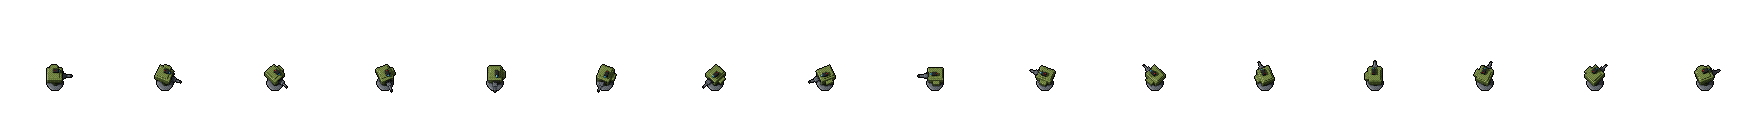
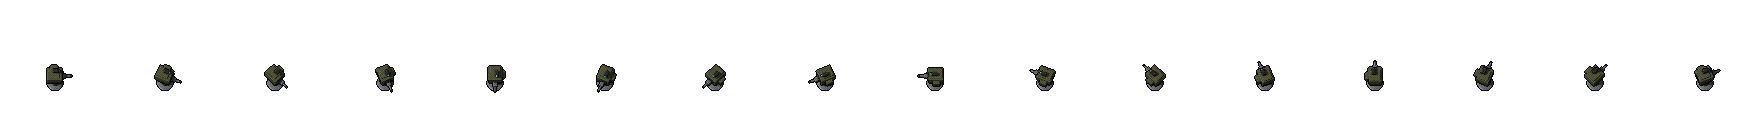
Ranked talents, turret polish, campfire line
- Talents: a second row of five-rank talents, each opened by the one over
  it: Quick knife, Quick roll and Quick reload, each rank 1% off what's
  left of its wait (never down to nothing); the level cap counts every
  rank
- Turret: darker khaki armour, black lines between its parts; five bugs
  come for the hero the first time he comes up to it
- Campfire: its line shortened to two rows, wondering where the wood's
  from

diff --git a/public/client.js b/public/client.js
@@ -11,7 +11,7 @@ import { createSpeech } from '/render/speech.js';
 import { createGuide } from '/render/guide.js';
 import { createReach } from '/render/reach.js';
 import { createHotbar } from '/render/hotbar.js';
-import { TALENTS, createTalents } from '/render/talents.js';
+import { TALENTS, TALENT_POINTS, createTalents } from '/render/talents.js';
 import { lifeBar, RING_STEP } from '/render/life.js';
 import { createJournal } from '/render/journal.js';
 import { MARGIN as GLOBE_MARGIN, RADIUS as GLOBE_RADIUS, createGlobe } from '/render/globe.js';
@@ -65,7 +65,7 @@ let medkits = MEDKITS, medkitCool = 0; // (seconds till the next can be)
 // point to spend (T; see render/talents.js). He starts at the first; the punching bag cut to bits
 // gives him the second at once. He goes no higher than there are talents for (MAX_LEVEL)
 const xpFor = (level) => 50 * level;
-const MAX_LEVEL = 1 + TALENTS.length;
+const MAX_LEVEL = 1 + TALENT_POINTS; // (a level for each point the talents can take, all their ranks)
 let xp = 0, level = 1, points = 0, talentsOpen = false;
 const me = { hp: HP, x: SPAWN.x, y: SPAWN.y, dir: 0, moving: false, gait: 'run', roll: null, rollCooldown: 0, pick: null, squat: 0, slash: null, fire: null, crouch: false, animOffset: 0, stride: 0.7, sprite: 'hero' };
 const objects = OBJECTS.filter((o) => !o.later); // what still lies on the map (picked up things are removed)
@@ -632,6 +632,11 @@ let drill = 'off';
 // The rounds: counted once the drill's done: in the magazine; full
 // magazines to put in he has no end of
 const MAG = 10; // rounds in one
+// The knife's wait after a slash, the gun's reload and the wait after a roll, each 1% shorter for each rank of its talent (of
+// what's left of it each time: never down to nothing)
+const knifeWait = () => SLASH_COOLDOWN * 0.99 ** talents.rank('quickknife');
+const reloadTime = () => RELOAD_TIME * 0.99 ** talents.rank('quickreload');
+const rollWait = () => ROLL_COOLDOWN * 0.99 ** talents.rank('quickroll'); // (the roll's too)
 const RELOAD_SOUNDS = [[0.55, 'in'], [1, 'bolt']]; // a reload's sounds, at how far through it (0..1): the new one in, the bolt (as it's done: he can fire then)
 // A reload started: the magazine out at once (or after seconds), heard then whether or not it goes on yet
 // (running, it waits)
@@ -780,13 +785,25 @@ function inSlash(x, y, r) {
 }
 
 // ---------- The turret by the campfire: it turns to the nearest bug in TURRET_RANGE it can see and,
-// once its gun's on it, fires at it, a round every TURRET_EVERY: each a point off its life ----------
+// once its gun's on it, fires at it, a round every TURRET_EVERY: each a point off its life. The first
+// time he comes up to it, TURRET_WAVE bugs come for him out of sight ----------
 
 const turret = OBJECTS.find((o) => o.name === 'turret'); // (its aim: where its gun points, radians; frame: its sprite's for that)
 const TURRET_TURN = 5, TURRET_ON = 0.12, TURRET_EVERY = 0.16; // radians a second it turns; how close to on it, to fire; seconds between rounds
 let turretCool = 0;
 
+const TURRET_WAVE = 5, TURRET_NEAR = 4 * UNITS_PER_M; // bugs that come for him out of sight the first time he comes up to it (meters from it)
+let turretMet = false;
+
 function updateTurret(dt) {
+  // The first time he comes up to it, a pack comes for him out of the dark (for it to show what it does)
+  if (!turretMet && Math.hypot(turret.x - me.x, turret.y - me.y) < TURRET_NEAR) {
+    turretMet = true;
+    for (let i = 0; i < TURRET_WAVE; i++) {
+      const was = bugs.length;
+      for (let tries = 0; tries < 8 && bugs.length === was; tries++) spawnPack(1); // (each from wherever's clear, out of sight)
+    }
+  }
   turretCool = Math.max(0, turretCool - dt);
   let target = null, best = Infinity;
   for (const b of bugs) { // (the nearest, with nothing solid in the way)
@@ -1218,7 +1235,7 @@ function step(real) {
   me.knifeCool = Math.max(0, (me.knifeCool ?? 0) - dt); // (seconds till the knife's ready again: a slash and SLASH_COOLDOWN after it)
   if (attackPressed && free && !drilling && !me.knifeCool) {
     me.slash = { t: 0 };
-    me.knifeCool = SLASH_TIME + SLASH_COOLDOWN;
+    me.knifeCool = SLASH_TIME + knifeWait();
     me.animOffset = -now;
     sounds.swish(SLASH_TIME * SLASH_CUT);
   }
@@ -1262,11 +1279,11 @@ function step(real) {
   // Reloading goes on while he stands (on the move too, with the talent; running without it, it waits
   // where it is): with the trigger held through it, he fires on once it's done
   if (ammo && ammo.reload !== null && (!me.moving || talents.has('runreload'))) {
-    const was = ammo.reload / RELOAD_TIME;
+    const was = ammo.reload / reloadTime();
     ammo.reload += dt;
-    const k = ammo.reload / RELOAD_TIME; // (its sounds as it gets to them)
+    const k = ammo.reload / reloadTime(); // (its sounds as it gets to them)
     for (const [at, part] of RELOAD_SOUNDS) if (was < at && k >= at) sounds.reload(part);
-    if (ammo.reload >= RELOAD_TIME) {
+    if (ammo.reload >= reloadTime()) {
       Object.assign(ammo, { mag: MAG, reload: null });
       me.animOffset = -now; // (the gait's clock from the start again: the reload's legs end where a cycle starts)
     }
@@ -1288,7 +1305,7 @@ function step(real) {
   // roll (startRoll turns him). Without a cursor he looks where he runs.
   const aim = aimDirection();
   if (me.pick) updatePick(dt);
-  else if (!updateRoll(me, dt)) {
+  else if (!updateRoll(me, dt, rollWait())) {
     if (me.squat > 0) { if (near) me.dir = dirFromVector(near.x - me.x, near.y - me.y); } // turned to it
     else if (aim) me.dir = dirFromVector(aim.dx, aim.dy);
     else if (me.moving) me.dir = dirFromVector(dx, dy);
@@ -1476,7 +1493,7 @@ function updateDebug() {
     row('talents', TALENTS.filter((tl) => talents.has(tl.id)).map((tl) => tl.id).join(', ') || '—'),
     row('backpack', show(hasBackpack)),
     row('medkits', `${medkits} / ${MEDKITS}`),
-    row('ammo', ammo ? `${ammo.mag} / ${MAG}${ammo.reload !== null ? `, reloading ${show(ammo.reload)} / ${show(RELOAD_TIME)} s` : ''}` : '—'),
+    row('ammo', ammo ? `${ammo.mag} / ${MAG}${ammo.reload !== null ? `, reloading ${show(ammo.reload)} / ${show(reloadTime())} s` : ''}` : '—'),
     '', `BUGS ${bugs.length}`,
     ...bugs.slice(0, DEBUG_BUGS).map((b) => `${show(Math.hypot(b.x - me.x, b.y - me.y) / UNITS_PER_M).padStart(6)} m  life ${show(b.life)}  ${b.moving ? 'moving' : 'still'}  dash ${show(b.dash)}  bite ${show(b.bite)}`),
     ...(bugs.length > DEBUG_BUGS ? [`  … ${bugs.length - DEBUG_BUGS} more`] : []),
@@ -1529,7 +1546,7 @@ function render(now, dt, talkDt = dt) {
       me.slash ? me.slash.t / SLASH_TIME : null, dt, !!me.roll, toScreenX(shotRange()), // gone while rolling
       (a, px) => toScreenX(aimHit(Math.cos(a), Math.sin(a), px / toScreenX(1))), // stopped by solid things, and the bottles
       shotSpread(), me.fire?.phase === 'loop' ? 0.5 + 0.5 * Math.exp(-(clock - lastShotAt) / 90) : 0, // the cone lit while firing, flaring with each round
-      Math.min(1, (me.knifeCool ?? 0) / SLASH_COOLDOWN)); // the knife getting ready again: the sector empty through the slash, then filling back in
+      Math.min(1, (me.knifeCool ?? 0) / knifeWait())); // the knife getting ready again: the sector empty through the slash, then filling back in
     // The rounds left in the magazine, on the sand along the aim, just to the right of its line (as he
     // looks): a square for each, in a row (they run down from the far end;
     // reloading, they fill back in from the near end, pale red to white; the empty ones blink pale red
@@ -1541,7 +1558,7 @@ function render(now, dt, talkDt = dt) {
       ctx.save();
       ctx.translate(camX + toScreenX(me.x), camY + toScreenY(me.y));
       ctx.rotate(angle); // x on along the aim, y to its right
-      const blink = 0.5 + 0.5 * Math.sin((now / 1000) * Math.PI * 5), k = ammo.reload !== null ? ammo.reload / RELOAD_TIME : null;
+      const blink = 0.5 + 0.5 * Math.sin((now / 1000) * Math.PI * 5), k = ammo.reload !== null ? ammo.reload / reloadTime() : null;
       const full = k !== null ? Math.floor(MAG * k) : ammo.mag; // (reloading: the ones in already)
       const on = k !== null ? `rgba(255, ${Math.round(140 + 115 * k)}, ${Math.round(120 + 135 * k)}, ${0.45 + 0.15 * k})` : 'rgba(255, 255, 255, 0.6)';
       const off = k !== null ? `rgba(255, 110, 90, ${0.15 + 0.3 * blink})` : 'rgba(255, 255, 255, 0.15)';
@@ -1553,8 +1570,8 @@ function render(now, dt, talkDt = dt) {
     }
   }
   // The roll getting ready again: a ring inside his health's, two of its rings' steps in (there in a roll too)
-  const rollGone = me.roll ? me.roll.t : ROLL_TIME + ROLL_COOLDOWN - (me.rollCooldown ?? 0); // (seconds since a roll started)
-  const rollCool = Math.max(0, 1 - rollGone / (ROLL_TIME + ROLL_COOLDOWN));
+  const rollGone = me.roll ? me.roll.t : ROLL_TIME + rollWait() - (me.rollCooldown ?? 0); // (seconds since a roll started)
+  const rollCool = Math.max(0, 1 - rollGone / (ROLL_TIME + rollWait()));
   if (rollShown()) reach.roll(snap(camX + toScreenX(me.x)), snap(camY + toScreenY(me.y)), toScreenX(HEALTH_R) - 2 * RING_STEP, aimAngle() + Math.PI, rollCool, dt);
   // His health, a ring on the sand round him (there in a roll too, unlike the reach)
   reach.health(snap(camX + toScreenX(me.x)), snap(camY + toScreenY(me.y)), toScreenX(HEALTH_R), aimAngle() + Math.PI, me.hp, HP, strikeClock); // (the pulse on real time)
@@ -1570,7 +1587,7 @@ function render(now, dt, talkDt = dt) {
     x: snap(camX + toScreenX(p.x)), y: snap(camY + toScreenY(p.y)), dir: p.dir,
     // The roll, the slash, the reload and picking up play once, from their start
     // (squatting while E fills, the pick animation's way down follows the key)
-    time: p.roll ? p.roll.t * 1000 : p.slash ? p.slash.t * 1000 : reloading(p) ? ammo.reload * 1000 : p.fire && p.fire.phase !== 'loop' ? p.fire.t * 1000 : p.pick ? p.pick.t * 1000
+    time: p.roll ? p.roll.t * 1000 : p.slash ? p.slash.t * 1000 : reloading(p) ? ammo.reload * (RELOAD_TIME / reloadTime()) * 1000 : p.fire && p.fire.phase !== 'loop' ? p.fire.t * 1000 : p.pick ? p.pick.t * 1000
       : p.squat > 0 ? p.squat * PICK_GRAB * PICK_TIME * 1000 : now + p.animOffset,
     anim: p.roll ? 'roll' : p.slash ? crouched(p.moving ? SLASH_ANIM[p.gait] : 'slash')
       : reloading(p) ? crouched(p.moving ? RELOAD_ANIM[p.gait] : 'reload')
@@ -1752,8 +1769,8 @@ function render(now, dt, talkDt = dt) {
   if (hasBackpack) hotbar.draw([
     { key: '1', icon: 'cross', held: keys.has('Digit1'), dim: !medkits, cool: medkitCool / MEDKIT_COOLDOWN }, // (how many are left: not shown for now)
     ...(rollShown() ? [{ key: 'Space', icon: 'roll', held: keys.has('Space'), cool: rollCool }] : []),
-    { key: 'LMB', icon: 'fist', held: knifeHeld, cool: Math.min(1, (me.knifeCool ?? 0) / (SLASH_TIME + SLASH_COOLDOWN)) },
-    { key: 'RMB', icon: 'crosshair', held: triggerHeld, cool: ammo?.reload != null ? 1 - ammo.reload / RELOAD_TIME : 0, count: ammo && ammo.reload == null ? ammo.mag : null },
+    { key: 'LMB', icon: 'fist', held: knifeHeld, cool: Math.min(1, (me.knifeCool ?? 0) / (SLASH_TIME + knifeWait())) },
+    { key: 'RMB', icon: 'crosshair', held: triggerHeld, cool: ammo?.reload != null ? 1 - ammo.reload / reloadTime() : 0, count: ammo && ammo.reload == null ? ammo.mag : null },
   ], W / 2, H - GLOBE_MARGIN, dt, { level, k: level >= MAX_LEVEL ? 1 : xp / xpFor(level), points });
   // The bottom right corner, as the planet's name is over the globe, growing up from it: the journal (J) at
   // the bottom, over it the talents (T: once there are some to have, his second level on), then the map

diff --git a/public/render/talents.js b/public/render/talents.js
@@ -1,34 +1,45 @@
 // The talents: what a level's point buys, and their window (T), over the middle of the screen while the
-// game holds: a card for each in a row, like the labels' (a see-through black plate, a thick edge on
-// the left, rounded on the right): white once taken, gold while it can be (a point to spend), dim
-// with none. A click on a gold one takes it. Without them, he stands still to slash or fire, and a
-// reload waits while he runs.
+// game holds: their cards in rows, like the labels' (a see-through black plate, a thick edge on the left,
+// rounded on the right): white once taken (all the way), gold while it can be (a point to spend), dim
+// with none. A click on a gold one takes it (a rank of it). The first row's are taken once: without
+// them, he stands still to slash or fire, and a reload waits while he runs. The second row's have
+// ranks, a point each, shown as pips on the card.
 
 import { FONT, PLATE, EDGE, GOLD, GOLD_EDGE } from '/render/labels.js';
 
-// { id, name, text (what it does) }
+// { id, name, text (what it does), row (0, 1: which row of the window), ranks (how many times it can be
+// taken: 1 if not given), needs (a talent to have taken first: the one over it) }
 export const TALENTS = [
-  { id: 'runslash', name: 'Slash on the run', text: 'Use the knife without stopping' },
-  { id: 'runfire', name: 'Shoot on the move', text: 'Fire the gun without stopping' },
-  { id: 'runreload', name: 'Reload on the move', text: 'Keep reloading while running' },
+  { id: 'runslash', name: 'Slash on the run', text: 'Use the knife without stopping', row: 0 },
+  { id: 'runfire', name: 'Shoot on the move', text: 'Fire the gun without stopping', row: 0 },
+  { id: 'runreload', name: 'Reload on the move', text: 'Keep reloading while running', row: 0 },
+  { id: 'quickknife', name: 'Quick knife', text: '-1% of the knife\'s wait', row: 1, ranks: 5, needs: 'runslash' },
+  { id: 'quickroll', name: 'Quick roll', text: '-1% of the roll\'s wait', row: 1, ranks: 5, needs: 'runfire' },
+  { id: 'quickreload', name: 'Quick reload', text: '-1% of the reload\'s time', row: 1, ranks: 5, needs: 'runreload' },
 ];
+const ranksOf = (t) => t.ranks ?? 1;
+// Points all the talents can take, all their ranks (a level for each: see client.js)
+export const TALENT_POINTS = TALENTS.reduce((n, t) => n + ranksOf(t), 0);
 
 const CARD_W = 190, CARD_H = 44, GAP = 12, PAD = 16, HEAD = 40; // px
 const NAME = `700 12px ${FONT}`, TEXT = `300 11px ${FONT}`, POINTS = `400 12px ${FONT}`;
 
 // ctx: the canvas to draw on
 export function createTalents(ctx) {
-  const taken = new Set();
+  const taken = new Map(); // id -> how many of its ranks
   let cards = []; // the cards on screen as last drawn: { id, x0, y0, x1, y1 }
 
-  const can = (t, points) => points > 0 && !taken.has(t.id);
+  const rank = (id) => taken.get(id) ?? 0;
+  const unlocked = (t) => !t.needs || rank(t.needs) > 0; // (the one it needs taken)
+  const can = (t, points) => points > 0 && unlocked(t) && rank(t.id) < ranksOf(t);
 
   return {
-    has: (id) => taken.has(id),
-    // The ones taken (their ids), to keep; and putting them back
-    taken: () => [...taken],
+    has: (id) => rank(id) > 0,
+    rank, // (how many of its ranks are taken)
+    // The ones taken (an id for each rank of it), to keep; and putting them back
+    taken: () => [...taken].flatMap(([id, n]) => Array(n).fill(id)),
     restore(ids) {
-      for (const id of ids) taken.add(id);
+      for (const id of ids) taken.set(id, rank(id) + 1);
     },
     // Takes the talent under screen point (x, y) if it can be (points: how many he has to spend):
     // returns it, or null
@@ -36,14 +47,15 @@ export function createTalents(ctx) {
       const c = cards.find((c) => x >= c.x0 && x <= c.x1 && y >= c.y0 && y <= c.y1);
       const t = c && TALENTS.find((t) => t.id === c.id);
       if (!t || !can(t, points)) return null;
-      taken.add(t.id);
+      taken.set(t.id, rank(t.id) + 1);
       return t;
     },
 
     // The window, its middle at (cx, cy): points to spend; mouse: the cursor ({ x, y } or null). Its name
     // and what shuts it go over it, on the HUD's cards (see client.js): returns its box { left, top, w, h }
     draw(cx, cy, points, mouse) {
-      const w = PAD * 2 + TALENTS.length * CARD_W + (TALENTS.length - 1) * GAP, h = HEAD + CARD_H + PAD;
+      const rows = [0, 1].map((r) => TALENTS.filter((t) => t.row === r)).filter((r) => r.length), most = Math.max(...rows.map((r) => r.length));
+      const w = PAD * 2 + most * CARD_W + (most - 1) * GAP, h = HEAD + rows.length * CARD_H + (rows.length - 1) * GAP + PAD;
       const left = Math.round(cx - w / 2) + 0.5, top = Math.round(cy - h / 2) + 0.5;
       ctx.save();
       ctx.fillStyle = 'rgba(4, 3, 8, 0.6)'; // the world dimmed behind it
@@ -64,9 +76,9 @@ export function createTalents(ctx) {
       ctx.fillText(`${points} point${points === 1 ? '' : 's'} to spend`, left + w - PAD, top + HEAD / 2);
       ctx.textAlign = 'left';
       cards = [];
-      TALENTS.forEach((t, i) => {
-        const x = left + PAD + i * (CARD_W + GAP), y = top + HEAD;
-        const has = taken.has(t.id), open = can(t, points), over = open && mouse && mouse.x >= x && mouse.x <= x + CARD_W && mouse.y >= y && mouse.y <= y + CARD_H;
+      rows.forEach((row, r) => row.forEach((t, i) => {
+        const x = left + PAD + i * (CARD_W + GAP), y = top + HEAD + r * (CARD_H + GAP);
+        const n = rank(t.id), has = n >= ranksOf(t), open = can(t, points), over = open && mouse && mouse.x >= x && mouse.x <= x + CARD_W && mouse.y >= y && mouse.y <= y + CARD_H;
         ctx.beginPath();
         ctx.roundRect(x, y, CARD_W, CARD_H, [0, 5, 5, 0]);
         ctx.fillStyle = over ? 'rgba(230, 190, 90, 0.18)' : 'rgba(255, 255, 255, 0.04)';
@@ -75,15 +87,20 @@ export function createTalents(ctx) {
         ctx.stroke();
         ctx.fillStyle = has ? '#fff' : open ? GOLD : 'rgba(255, 255, 255, 0.2)';
         ctx.fillRect(x - 0.5, y - 0.5, 3, CARD_H + 1);
-        const dim = !has && !open;
+        const dim = !has && !open && !n;
         ctx.font = NAME;
         ctx.fillStyle = dim ? '#666' : '#fff';
         ctx.fillText(t.name, x + 11, y + 15);
         ctx.font = TEXT;
         ctx.fillStyle = dim ? '#555' : '#aaa';
-        ctx.fillText(t.text, x + 11, y + 31);
+        ctx.fillText(unlocked(t) ? t.text : `Needs ${TALENTS.find((o) => o.id === t.needs).name}`, x + 11, y + 31); // (locked: what opens it)
+        if (ranksOf(t) > 1) for (let k = 0; k < ranksOf(t); k++) { // its ranks: a pip each, filled as taken (at the top right)
+          const px = x + CARD_W - 10 - (ranksOf(t) - k) * 9, py = y + 10;
+          ctx.fillStyle = k < n ? '#fff' : 'rgba(255, 255, 255, 0.15)';
+          ctx.fillRect(px, py, 6, 6);
+        }
         cards.push({ id: t.id, x0: x, y0: y, x1: x + CARD_W, y1: y + CARD_H });
-      });
+      }));
       ctx.restore();
       return { left, top, w, h };
     },

diff --git a/shared/world.js b/shared/world.js
@@ -236,7 +236,7 @@ export const STRUCTURES = { label: 'Safe space', home: toSphere(northChart(backp
 Object.assign(STRUCTURES, chartPoint(CHART0, STRUCTURES.home)); // (its x, y on the chart, kept there as the objects')
 // The safe space's campfire, burning right there: low (struck and shot over), not walked through
 const CAMPFIRE_SOLID = { x: STRUCTURES.x, y: STRUCTURES.y, r: 0.55 * UNITS_PER_M, of: 'campfire' };
-OBJECTS.push({ name: 'campfire', x: STRUCTURES.x, y: STRUCTURES.y, label: STRUCTURES.label, solid: CAMPFIRE_SOLID, heals: true, say: 'A prehistoric way to keep warm... Barbaric, but it works!' });
+OBJECTS.push({ name: 'campfire', x: STRUCTURES.x, y: STRUCTURES.y, label: STRUCTURES.label, solid: CAMPFIRE_SOLID, heals: true, say: 'A prehistoric way to keep warm... Barbaric, but it works! Where does he get wood?' });
 OBSTACLES.push(CAMPFIRE_SOLID);
 // By it, an automatic turret: a machine gun on a tripod that turns to the nearest bug in TURRET_RANGE
 // and fires at it (see client.js); tall: it stops shots
@@ -366,7 +366,7 @@ export function startRoll(p, dx, dy) {
   return true;
 }
 
-export function updateRoll(p, dt) {
+export function updateRoll(p, dt, cooldown = ROLL_COOLDOWN) { // (cooldown: the wait after it, seconds: shorter with a talent)
   if (!p.roll) {
     p.rollCooldown = Math.max(0, (p.rollCooldown ?? 0) - dt);
     return false;
@@ -376,7 +376,7 @@ export function updateRoll(p, dt) {
   p.roll.t += dt;
   if (p.roll.t >= ROLL_TIME) {
     p.roll = null;
-    p.rollCooldown = ROLL_COOLDOWN;
+    p.rollCooldown = cooldown;
   }
   return true;
 }
